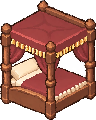
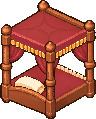
캐노피 침대: 새 뒤쪽 그림(머리판) 적용, 그림의 베개 자리에 머리가 오게 하고 지붕·앞 기둥이 누운 몸을 가리게
Claude-Session: https://claude.ai/code/session_017aF2aZeAYzMjvegGtH2ZQ4

diff --git a/index.html b/index.html
@@ -5,7 +5,7 @@
   <meta name="viewport" content="width=device-width, initial-scale=1">
   <title>My Cozy Room</title>
   <!-- 파일 뒤의 ?v= 번호는 업데이트할 때마다 바꿉니다. (브라우저가 옛 파일을 쓰지 않도록) -->
-  <link rel="stylesheet" href="style.css?v=20261120-15">
+  <link rel="stylesheet" href="style.css?v=20261120-16">
   <!-- 화면 전환에 꼭 필요한 규칙 (디자인 파일을 늦게 받아도 화면이 섞이지 않게) -->
   <style>
     .screen { display: none; }
@@ -445,24 +445,24 @@
   </main>
 
   <!-- 순서 중요: 데이터 → 방 → 저장 → 게임 → 집중 → 첫 화면 → 로그인 -->
-  <script src="data.js?v=20261120-15"></script>
-  <script src="rooms.js?v=20261120-15"></script>
-  <script src="save.js?v=20261120-15"></script>
-  <script src="hero-art.js?v=20261120-15"></script>
-  <script src="acc-art.js?v=20261120-15"></script>
-  <script src="pet-art.js?v=20261120-15"></script>
-  <script src="outfit-art.js?v=20261120-15"></script>
-  <script src="lie-front-art.js?v=20261120-15"></script>
-  <script src="game.js?v=20261120-15"></script>
-  <script src="focus.js?v=20261120-15"></script>
-  <script src="side.js?v=20261120-15"></script>
-  <script src="side-deco.js?v=20261120-15"></script>
-  <script src="start.js?v=20261120-15"></script>
-  <script src="friends.js?v=20261120-15"></script>
+  <script src="data.js?v=20261120-16"></script>
+  <script src="rooms.js?v=20261120-16"></script>
+  <script src="save.js?v=20261120-16"></script>
+  <script src="hero-art.js?v=20261120-16"></script>
+  <script src="acc-art.js?v=20261120-16"></script>
+  <script src="pet-art.js?v=20261120-16"></script>
+  <script src="outfit-art.js?v=20261120-16"></script>
+  <script src="lie-front-art.js?v=20261120-16"></script>
+  <script src="game.js?v=20261120-16"></script>
+  <script src="focus.js?v=20261120-16"></script>
+  <script src="side.js?v=20261120-16"></script>
+  <script src="side-deco.js?v=20261120-16"></script>
+  <script src="start.js?v=20261120-16"></script>
+  <script src="friends.js?v=20261120-16"></script>
   <!-- 구글 로그인 (Supabase) -->
   <script src="https://cdn.jsdelivr.net/npm/@supabase/supabase-js@2.45.4/dist/umd/supabase.min.js"></script>
-  <script src="cloud.js?v=20261120-15"></script>
-  <script src="gcal.js?v=20261120-15"></script>
-  <script src="news.js?v=20261120-15"></script>
+  <script src="cloud.js?v=20261120-16"></script>
+  <script src="gcal.js?v=20261120-16"></script>
+  <script src="news.js?v=20261120-16"></script>
 </body>
 </html>

diff --git a/game.js b/game.js
@@ -1867,16 +1867,22 @@ function bedItem() {
   return items.find((f) => f.sleep);
 }
 
+// 잠자리 자리 (베개·서는 곳). 뒤쪽 그림에 베개 자리를 따로 적어 두었으면(sleepBack) 그 그림 기준으로
+function sleepPoint(b, key) {
+  if (backView(b) && b.sleepBack && b.sleepBack[key]) return turned(b, b.sleepBack[key]);
+  return turnedPoint(b, b.sleep[key]);
+}
+
 function pillowPos() {
   const b = bedItem();
-  const [px, py, pz] = turnedPoint(b, b.sleep.pillow);
+  const [px, py, pz] = sleepPoint(b, "pillow");
   return [b.x + px, b.y + py, b.z + pz];
 }
 
 // 잠들기 전 서는 자리 (막혀 있으면 잠자리 주변의 빈 곳)
 function bedSide() {
   const b = bedItem();
-  return spotNear(b, turnedPoint(b, b.sleep.side));
+  return spotNear(b, sleepPoint(b, "side"));
 }
 
 // 가구 옆에 설 자리 (정해 둔 자리가 막혀 있으면 가구 주변의 빈 곳)
@@ -3112,17 +3118,23 @@ function drawSleeper() {
   if (hero.mode !== "sleep") return;
   const p = project(...pillowPos());
   const b = bedItem();
-  if (useHeroArt() ? drawLying(b, p) : drawLyingSimple(b, p)) return;
-  if (!b.parts) { drawHeadTowardViewer(b, p); return; }
+  if (useHeroArt() ? drawLying(b, p) : drawLyingSimple(b, p)) { coverSleeper(b); return; }
+  if (!b.parts) { drawHeadTowardViewer(b, p); coverSleeper(b); return; }
   // 머리만 그린 뒤, 베개보다 앞(화면 아래)에 있는 잠자리 부분을 다시 그려 머리가 베개에 묻히게 함
   drawHeroFrame("sleep", Math.round(p.x), Math.round(p.y), false);
   drawBedFront(b);
 }
 
+// 캐노피 지붕·앞 기둥처럼 누운 몸보다 앞에 있는 부분을 다시 그림 (data.js sleepCover, 뒤쪽 그림은 sleepCoverBack)
+function coverSleeper(b) {
+  if (b.parts) return;
+  redrawImageParts(b, backView(b) ? b.sleepCoverBack : b.sleepCover);
+}
+
 // 누울 방향: 베개에서 가구 가운데 쪽. x로 누우면 오른쪽 아래, y로 누우면 왼쪽 아래(그림을 뒤집음)
 // 베개가 앞쪽(화면 아래)이면 누운 그림이 없어서 null
 function lyingFlip(b) {
-  const [px, py] = turnedPoint(b, b.sleep.pillow);
+  const [px, py] = sleepPoint(b, "pillow");
   const { W, D } = baseSpan(b);
   const [w, d] = swapped(b) ? [D, W] : [W, D];
   const alongX = Math.abs(px - w / 2) > Math.abs(py - d / 2);

diff --git a/data.js b/data.js
@@ -1367,7 +1367,12 @@ FURNITURE.pinkBed.backFront = [[0, 0.36], [0.104, 0.32], [0.458, 0.563], [0.458,
 ["cabinet", "chest", "bookcase", "tallBookcase", "bookChest", "glassCabinet", "sideboard", "fridge", "wardrobe"].forEach((id) => {
   FURNITURE[id].imageBack = `img/furn/${id}Back.png`;
 });
-// 엔티크 가구 4종과 캐노피 침대 (캐노피는 세 번째 시도에서 베개가 맞게 옴)
+// 엔티크 가구 4종과 캐노피 침대
+// 캐노피 뒤쪽 그림은 머리판·베개가 왼쪽 아래(앞쪽 긴 변)에 있어서, 그 그림 기준 베개·서는 자리를 따로 적음
+FURNITURE.canopyBed.sleepBack = { pillow: [9, 15, 6], side: [6, 20] };
+// 누운 몸 위로 다시 그릴 칸: 지붕(위쪽)과 가운데 앞 기둥 (0~1 비율 [x0, y0, x1, y1])
+FURNITURE.canopyBed.sleepCover = [[0, 0, 1, 0.43], [0.44, 0.3, 0.57, 1]];
+FURNITURE.canopyBed.sleepCoverBack = [[0, 0, 1, 0.43], [0.44, 0.3, 0.57, 1]];
 ["fireplace", "vanity", "grandfatherClock", "piano", "canopyBed"].forEach((id) => {
   FURNITURE[id].imageBack = `img/furn/${id}Back.png`;
 });
